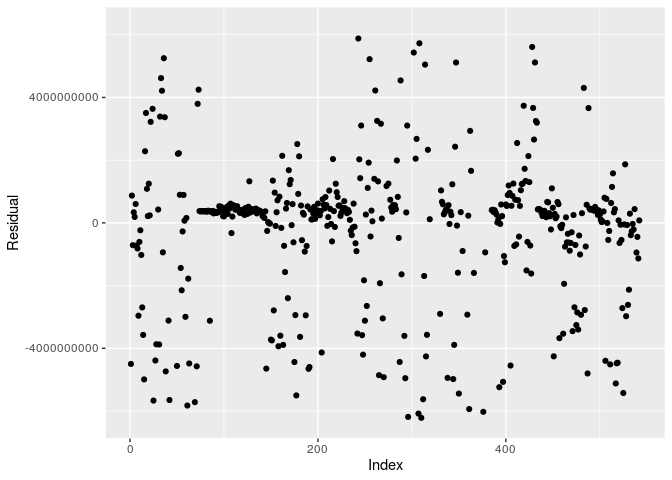
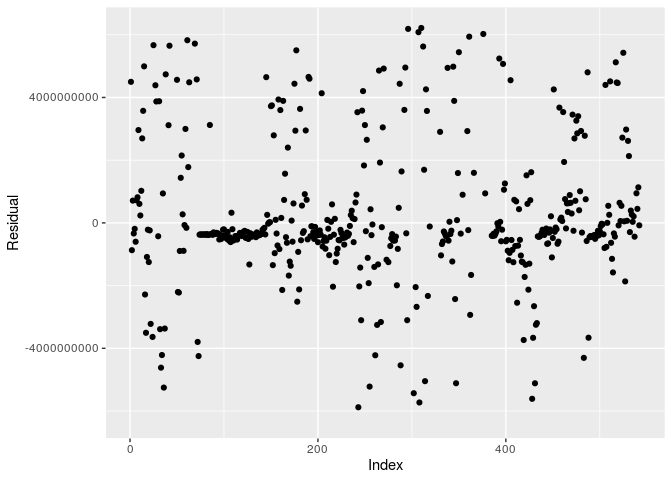
Fixed some stuff Malavi suggested

diff --git a/data-analysis/data-analysis.md b/data-analysis/data-analysis.md
@@ -19,7 +19,7 @@ africa <- read_csv("../data/african_crises.csv")
 global <- read_csv("../data/global_crisis_data.csv")
 gdps <- read_csv("../data/world_gdp_data.csv")
 
-tests <- 100
+tests <- 1000
 
 options(scipen = 999)
 ```
@@ -434,7 +434,7 @@ get_p_value(null_dist2, obs_stat = rmg[1] - rmg[2], direction = "two_sided")
     ## # A tibble: 1 x 1
     ##   p_value
     ##     <dbl>
-    ## 1     0.8
+    ## 1   0.678
 
 ``` r
 visualize(null_dist2) +
@@ -577,11 +577,7 @@ african_gdps <- african_gdps %>%
   group_by(country) %>%
   mutate(
     deltagdp = gdp - lag(gdp, default = gdp[1])
-  ) %>%
-  mutate(
-    neg_deltagdp = -deltagdp
-    ) %>%
-  select(-deltagdp)
+  )
 ```
 
 Notice that the gdpdelta has been negated - for our model, we want to
@@ -596,19 +592,19 @@ the distribution of GDP growth is skewed left.
 
 ``` r
 african_gdps %>%
-  filter(!is.na(neg_deltagdp)) %>%
+  filter(!is.na(deltagdp)) %>%
   group_by(systemic_crisis) %>%
   summarise(
-    median_negdeltaGDP = median(neg_deltagdp),
-    iqr_negdeltaGDP = IQR(neg_deltagdp),
+    median_deltaGDP = median(deltagdp),
+    iqr_deltaGDP = IQR(deltagdp),
   )
 ```
 
     ## # A tibble: 2 x 3
-    ##   systemic_crisis median_negdeltaGDP iqr_negdeltaGDP
-    ##   <fct>                        <dbl>           <dbl>
-    ## 1 0                       -400305237     2580219032.
-    ## 2 1                        -63907542     1206716865
+    ##   systemic_crisis median_deltaGDP iqr_deltaGDP
+    ##   <fct>                     <dbl>        <dbl>
+    ## 1 0                     400305237  2580219032.
+    ## 2 1                      63907542  1206716865
 
 While there is still evidence of positive growth, it is clear that, at
 least within our sample, the median negative GDP growth is greater
@@ -625,8 +621,8 @@ interaction between the `crisis` variables, and the interaction between
 sovereign and domestic debt in default.
 
 ``` r
-full_neg_deltaGDP_model <- lm(
-  neg_deltagdp ~ 
+full_deltaGDP_model <- lm(
+  deltagdp ~ 
     year +
     gdp +
     systemic_crisis +
@@ -641,7 +637,7 @@ full_neg_deltaGDP_model <- lm(
     banking_crisis +
     banking_crisis*inflation_crises*currency_crises*systemic_crisis +
     domestic_debt_in_default*sovereign_external_debt_default,
-  filter(african_gdps, !is.na(neg_deltagdp))
+  filter(african_gdps, !is.na(deltagdp))
     )
 ```
 
@@ -649,7 +645,7 @@ Now we can perform our backwards step function, optimizing for a lower
 value for AIC.
 
 ``` r
-best_aic <- step(full_neg_deltaGDP_model, direction = "backward")
+best_aic <- step(full_deltaGDP_model, direction = "backward")
 ```
 
 ``` r
@@ -664,18 +660,18 @@ glance(best_aic)
 
 ``` r
 tidy(best_aic) %>%
-  select(term, estimate) %>%
+  select(term, estimate, p.value) %>%
   kable(format = "markdown", digits = 3)
 ```
 
-| term                                 |         estimate |
-| :----------------------------------- | ---------------: |
-| (Intercept)                          |  \-366494257.942 |
-| gdp                                  |          \-0.088 |
-| gdp\_weighted\_default               |  13990989692.545 |
-| currency\_crises1                    |   5105526938.416 |
-| inflation\_crises1                   |   3493307347.953 |
-| currency\_crises1:inflation\_crises1 | \-7405531522.450 |
+| term                                 |          estimate | p.value |
+| :----------------------------------- | ----------------: | ------: |
+| (Intercept)                          |     366494257.942 |   0.485 |
+| gdp                                  |             0.088 |   0.000 |
+| gdp\_weighted\_default               | \-13990989692.545 |   0.137 |
+| currency\_crises1                    |  \-5105526938.416 |   0.000 |
+| inflation\_crises1                   |  \-3493307347.953 |   0.073 |
+| currency\_crises1:inflation\_crises1 |    7405531522.450 |   0.007 |
 
 Now, we are going to calculate the r-squared value. We are going to be
 using the adjusted r-squared value because this is a multiple
@@ -686,12 +682,6 @@ glance(best_aic)$adj.r.squared
 ```
 
     ## [1] 0.3174919
-
-``` r
-glance(best_aic)$p.value
-```
-
-    ## [1] 0.0000000000000000000000000000000000000000001787544
 
 As calculated above, the adjusted R squared value is 0.3174919; since
 the p-value of this model according to the Central Limit Theorem is much
@@ -764,7 +754,7 @@ ggplot(data = best_aic_aug, aes(x = .fitted, y = .resid)) +
   ylim(-5000000000, 5000000000)
 ```
 
-    ## Warning: Removed 191 rows containing missing values (geom_point).
+    ## Warning: Removed 457 rows containing missing values (geom_point).
 
 ![](data-analysis_files/figure-gfm/dist-and-variance-resids-zoom-1.png)<!-- -->
 
